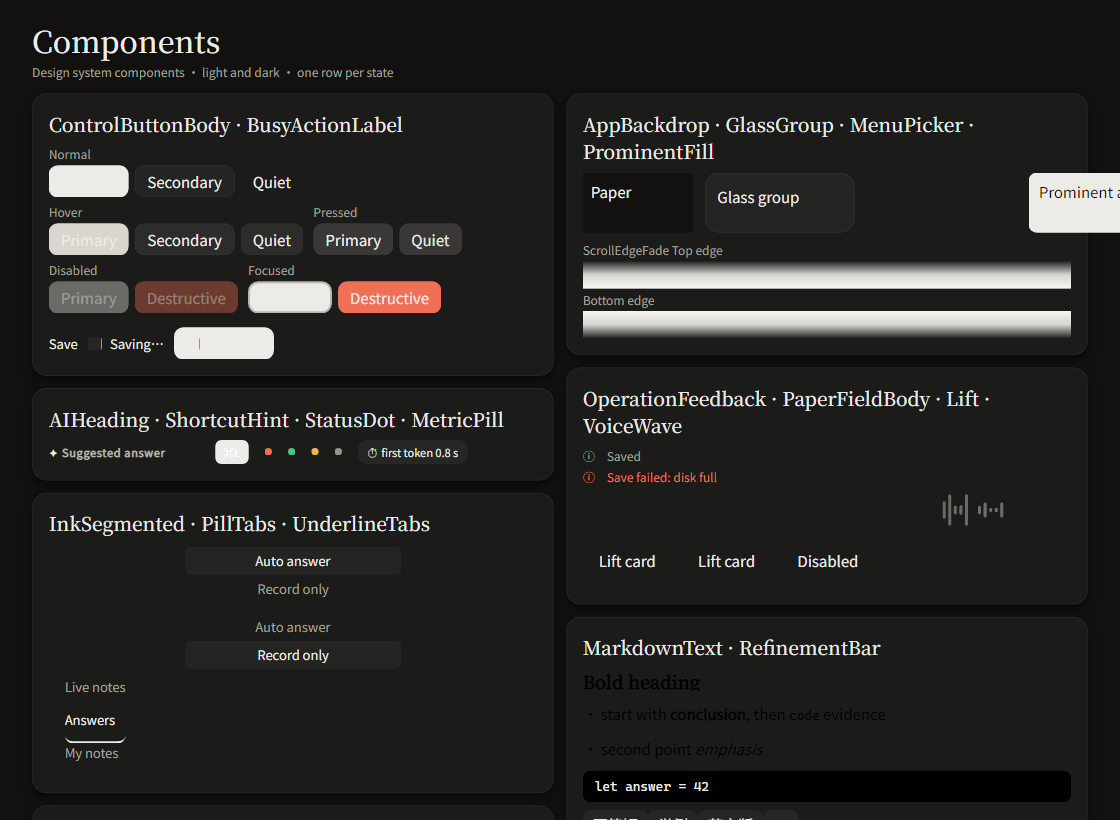
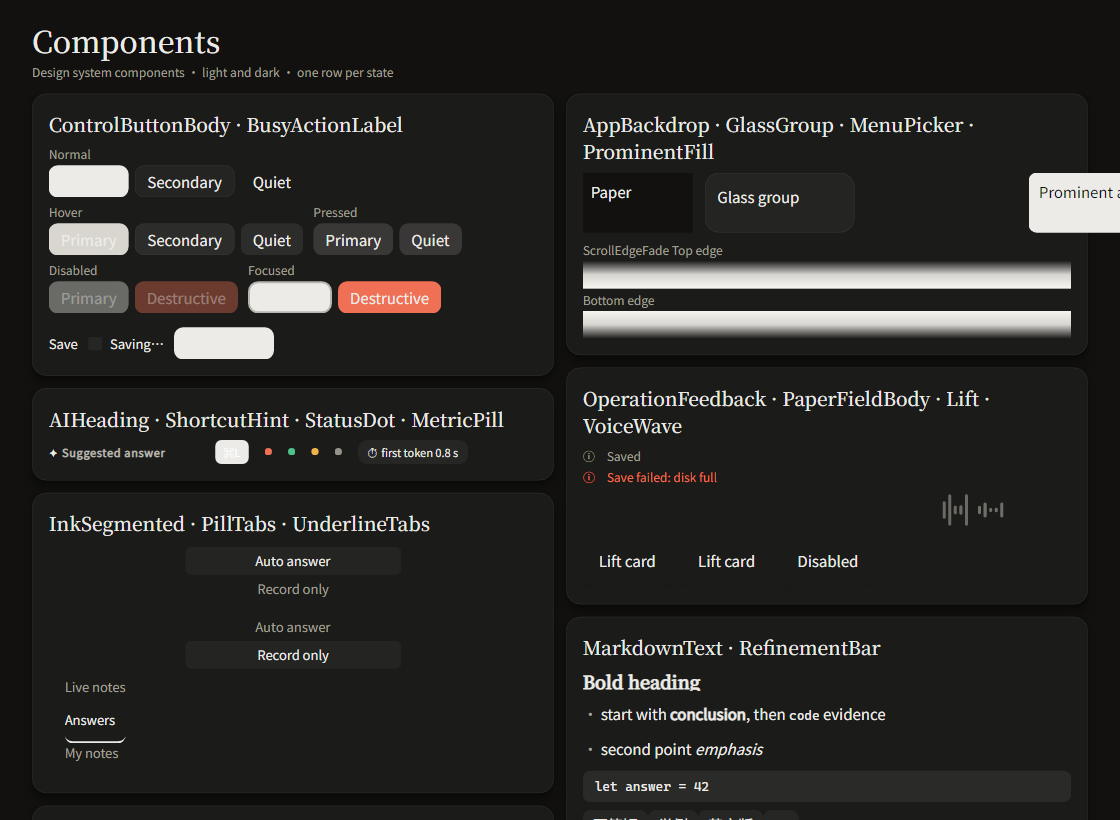
D6: resolve MarkdownText ink colours from the actual theme variant

Changed region(s): [[0.5, 0.8232, 0.9688, 0.9756]]

diff --git a/Windows/src/NextThought.Desktop/Views/MarkdownText.cs b/Windows/src/NextThought.Desktop/Views/MarkdownText.cs
@@ -36,6 +36,8 @@ public class MarkdownText : ContentControl
     {
         HorizontalContentAlignment = HorizontalAlignment.Stretch;
         Rebuild();
+        // §6.1/D6: theme dictionaries are resolved per control; a variant switch must re-resolve them.
+        ActualThemeVariantChanged += (_, _) => Rebuild();
     }
 
     public string Text
@@ -247,7 +249,7 @@ public class MarkdownText : ContentControl
         if (index < text.Length) target.Add(new Run(text[index..]));
     }
 
-    private static IBrush Resource(string key) => ResourceLookup.ByKey(key);
+    private IBrush Resource(string key) => ResourceLookup.ByKey(key, this);
 
     private static class Fonts
     {
@@ -258,9 +260,20 @@ public class MarkdownText : ContentControl
 
     private static class ResourceLookup
     {
-        public static IBrush ByKey(string key)
+        /// <summary>
+        /// D6: resolve through the control's own theme scope first. Application.TryFindResource only
+        /// sees the application theme, which returned light Ink for a control inside a dark window.
+        /// </summary>
+        public static IBrush ByKey(string key, StyledElement origin)
         {
-            if (Application.Current is { } app && app.TryFindResource(key, out var value) && value is IBrush brush) return brush;
+            if (origin.TryFindResource(key, origin.ActualThemeVariant, out var themedValue) && themedValue is IBrush themed)
+                return themed;
+            if (origin.TryFindResource(key, out var scopedValue) && scopedValue is IBrush scoped)
+                return scoped;
+            if (Application.Current is { } app && app.TryFindResource(key, origin.ActualThemeVariant, out var appValue)
+                && appValue is IBrush appBrush) return appBrush;
+            if (Application.Current is { } current && current.TryFindResource(key, out var anyValue) && anyValue is IBrush any)
+                return any;
             return Brushes.Black;
         }
     }

diff --git a/Windows/src/NextThought.Desktop/Controls/DesignSystemComponents.cs b/Windows/src/NextThought.Desktop/Controls/DesignSystemComponents.cs
@@ -46,11 +46,19 @@ public class ControlButtonBody : ContentControl
         AvaloniaProperty.Register<ControlButtonBody, double>(nameof(ButtonHeight), 32);
     public static readonly StyledProperty<bool> IsBusyProperty =
         AvaloniaProperty.Register<ControlButtonBody, bool>(nameof(IsBusy));
+    public static readonly StyledProperty<ICommand?> CommandProperty =
+        AvaloniaProperty.Register<ControlButtonBody, ICommand?>(nameof(Command));
+    public static readonly StyledProperty<object?> CommandParameterProperty =
+        AvaloniaProperty.Register<ControlButtonBody, object?>(nameof(CommandParameter));
 
     public ControlButtonBody()
     {
         Focusable = true;
         Cursor = new Cursor(StandardCursorType.Hand);
+        PointerReleased += (_, _) =>
+        {
+            if (Command is { } command && command.CanExecute(CommandParameter)) command.Execute(CommandParameter);
+        };
         PropertyChanged += (_, change) =>
         {
             if (change.Property == IsBusyProperty) Classes.Set("busy", IsBusy);
@@ -69,6 +77,19 @@ public class ControlButtonBody : ContentControl
         };
         Classes.Add("primary");
         Height = 32;
+    }
+
+    /// <summary>§6.7: pages bind commands directly, like a Button.</summary>
+    public ICommand? Command
+    {
+        get => GetValue(CommandProperty);
+        set => SetValue(CommandProperty, value);
+    }
+
+    public object? CommandParameter
+    {
+        get => GetValue(CommandParameterProperty);
+        set => SetValue(CommandParameterProperty, value);
     }
 
     public ControlEmphasis Emphasis

diff --git a/Windows/tests/NextThought.Tests/DesignSystemComponentsTests.cs b/Windows/tests/NextThought.Tests/DesignSystemComponentsTests.cs
@@ -107,4 +107,24 @@ public sealed class DesignSystemComponentsTests
         Assert.Contains(MarkdownReader.Inline("*强调*"),
             run => run.Kind == MarkdownInlineKind.Italic && run.Text == "强调");
     }
+    [Fact]
+    public void MarkdownTextResolvesInkFromTheActualThemeVariant()
+    {
+        var code = File.ReadAllText(Path.Combine(WindowsRoot(), "src", "NextThought.Desktop", "Views", "MarkdownText.cs"));
+        // D6: the control's own theme scope must win over Application.TryFindResource (which is light-only
+        // when the app theme differs from the window's ThemeVariantScope).
+        Assert.Contains("ActualThemeVariant", code);
+        Assert.Contains("TryFindResource(key, origin.ActualThemeVariant", code);
+        Assert.Contains("ActualThemeVariantChanged", code);
+    }
+
+    private static string WindowsRoot()
+    {
+        for (var directory = new DirectoryInfo(AppContext.BaseDirectory); directory is not null; directory = directory.Parent)
+        {
+            if (File.Exists(Path.Combine(directory.FullName, "Windows", "src", "NextThought.Desktop", "App.axaml")))
+                return Path.Combine(directory.FullName, "Windows");
+        }
+        throw new DirectoryNotFoundException("repository root");
+    }
 }
